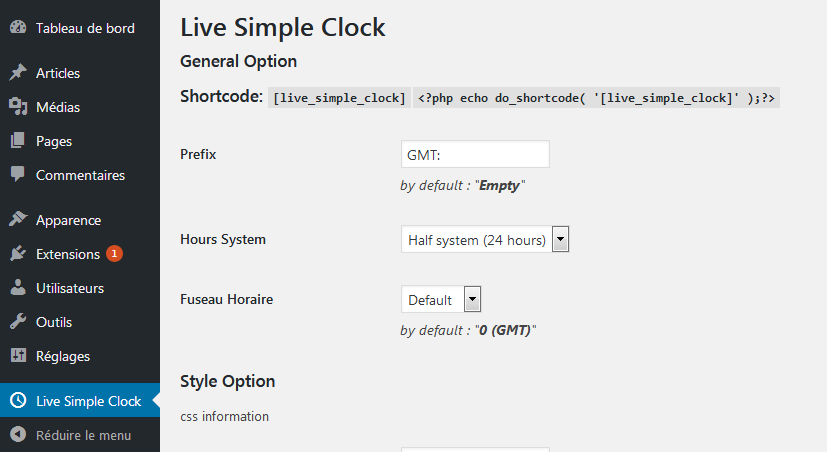
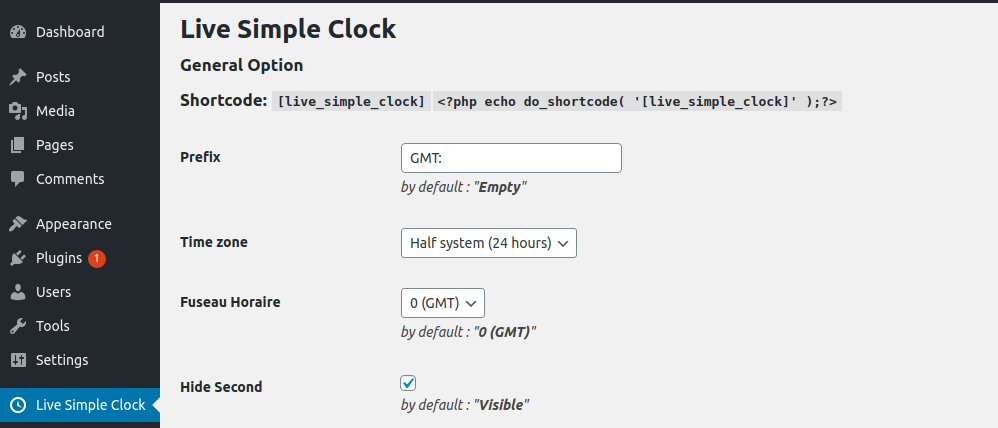
* Tested With WordPress 5.3.2 * Hide/Show second

diff --git a/tka-simple-clock-front-end.php b/tka-simple-clock-front-end.php
@@ -1,44 +1,46 @@
 <?php
 
-function tka_live_simple_clock_shortcode(){
-//css
+function tka_live_simple_clock_shortcode()
+{
+	//css
 
-	$font = esc_attr( get_option( 'tka_lsc_font' ) );
-	$font_size = esc_attr( get_option( 'tka_lsc_font_size' ) );
-	$font_weight = esc_attr( get_option( 'tka_lsc_font_weight' ) );
-	$font_color = esc_attr( get_option( 'tka_lsc_font_color' ) );
+	$font = esc_attr(get_option('tka_lsc_font'));
+	$font_size = esc_attr(get_option('tka_lsc_font_size'));
+	$font_weight = esc_attr(get_option('tka_lsc_font_weight'));
+	$font_color = esc_attr(get_option('tka_lsc_font_color'));
 
-	$codeCSS ='';
-	if($font!=''){
-		$codeCSS.='font-family:'.$font.';';
+	$codeCSS = '';
+	if ($font != '') {
+		$codeCSS .= 'font-family:' . $font . ';';
 	}
-	if($font_size!=''){
-		$codeCSS.='font-size:'.$font_size.';';
+	if ($font_size != '') {
+		$codeCSS .= 'font-size:' . $font_size . ';';
 	}
-	if($font_weight!=''){
-		$codeCSS.='font-weight:'.$font_weight.';';
+	if ($font_weight != '') {
+		$codeCSS .= 'font-weight:' . $font_weight . ';';
 	}
-	if($font_color!=''){
-		$codeCSS.='color:'.$font_color.';';
+	if ($font_color != '') {
+		$codeCSS .= 'color:' . $font_color . ';';
 	}
-//end css
-	
-	$format = esc_attr( get_option( 'tka_lsc_format' ) );
-	$fuseau = esc_attr( get_option( 'tka_lsc_fuseau' ) );
-	$title = esc_attr( get_option( 'tka_lsc_title' ) );
+	//end css
 
-	if($fuseau==''){
-		$fuseau='0';
+	$format = esc_attr(get_option('tka_lsc_format'));
+	$fuseau = esc_attr(get_option('tka_lsc_fuseau'));
+	$title = esc_attr(get_option('tka_lsc_title'));
+	$hidesecond = esc_attr(get_option('tka_lsc_hidesecond'));
+
+	if ($fuseau == '') {
+		$fuseau = '0';
 	}
-	if($format==12){
-		$temp='ampm = h >= 12 ? "pm" : "am";h=h % 12;h=h ? h : 12;';
-	}else{
-		$temp='';
+	if ($format == 12) {
+		$temp = 'ampm = h >= 12 ? "pm" : "am";h=h % 12;h=h ? h : 12;';
+	} else {
+		$temp = '';
 	}
 
-	$clock_html = '<span id="tka_time" class="tka_style" style="'.$codeCSS.'"></span>';
+	$clock_html = '<span id="tka_time" class="tka_style" style="' . $codeCSS . '"></span>';
 
-	$clock_script ='
+	$clock_script = '
 <script>
 	function checkTime(i) {
   if (i < 10) {
@@ -52,16 +54,25 @@ function startTime() {
   var today = new Date();
 
   var n = today.getTimezoneOffset();
-  var temp=('.$fuseau.'*60)/60;
+  var temp=(' . $fuseau . '*60)/60;
   var h = today.getHours();
-  	h=(temp+h);'.$temp.'
+  	h=(temp+h);' . $temp . '
   
   var m = today.getMinutes();
   var s = today.getSeconds();
   // add a zero in front of numbers<10
   m = checkTime(m);
-  s = checkTime(s);
-  document.getElementById("tka_time").innerHTML ="'.$title.' "+ h + ":" + m + ":" + s +" "+ampm;
+  s = checkTime(s);';
+
+	if ($hidesecond == true) {
+		$clock_script .= ' document.getElementById("tka_time").innerHTML ="' . $title . ' "+ h + ":" + m +" "+ampm;';
+	} else {
+		$clock_script .= ' document.getElementById("tka_time").innerHTML ="' . $title . ' "+ h + ":" + m + ":" + s +" "+ampm;';
+	}
+
+
+
+	$clock_script .= '
   t = setTimeout(function() {
     startTime()
   }, 500);
@@ -71,7 +82,6 @@ function startTime() {
 startTime();
 
 </script>';
-	return $clock_html.$clock_script;
+	return $clock_html . $clock_script;
 }
-add_shortcode( 'live_simple_clock', 'tka_live_simple_clock_shortcode' );
-
+add_shortcode('live_simple_clock', 'tka_live_simple_clock_shortcode');

diff --git a/tka-simple-clock-admin.php b/tka-simple-clock-admin.php
@@ -22,6 +22,7 @@ function tka_lsc_custom_setting(){
 	register_setting( 'tka-lsc-setting-group','tka_lsc_title');
 	register_setting( 'tka-lsc-setting-group','tka_lsc_format');
 	register_setting( 'tka-lsc-setting-group','tka_lsc_fuseau');
+	register_setting( 'tka-lsc-setting-group','tka_lsc_hidesecond');
 	//Enregistrement css
 	register_setting( 'tka-lsc-setting-group','tka_lsc_font');
 	register_setting( 'tka-lsc-setting-group','tka_lsc_font_size');
@@ -34,6 +35,7 @@ function tka_lsc_custom_setting(){
 	add_settings_field( 'tka-general-title','Prefix','tka_general_title','setting_lcs.php','tka-lsc-general-option');
 	add_settings_field( 'tka-general-format','Time zone','tka_general_format','setting_lcs.php','tka-lsc-general-option');
 	add_settings_field( 'tka-general-fuseau','Fuseau Horaire','tka_general_fuseau','setting_lcs.php','tka-lsc-general-option');
+	add_settings_field( 'tka-general-hidesecond','Hide Second','tka_general_hidesecond','setting_lcs.php','tka-lsc-general-option');
 	//Field css
 	add_settings_field( 'tka-css-font','Font','tka_css_font','setting_lcs.php','tka-lsc-css-option');
 	add_settings_field( 'tka-css-font_size','Font Size','tka_css_font_size','setting_lcs.php','tka-lsc-css-option');
@@ -110,6 +112,19 @@ function tka_general_fuseau(){
 	}
 
 	$html .='</select><p><i>by default : "<b>0 (GMT)</b>"</i></p>';
+	echo $html;
+}
+
+function tka_general_hidesecond(){
+	$hidesecond = esc_attr( get_option( 'tka_lsc_hidesecond' ) );
+	$html = '' ;
+	if($hidesecond == true){
+		$html .= '<input type="checkbox" name="tka_lsc_hidesecond" value="true" checked />';
+	}else{
+		$html .= '<input type="checkbox" name="tka_lsc_hidesecond" value="false" />';
+	}
+
+	$html .='<p><i>by default : "<b>Visible</b>"</i></p>';
 	echo $html;
 }
 

diff --git a/tka-simple-clock.php b/tka-simple-clock.php
@@ -2,7 +2,7 @@
 /*
 Plugin Name:  Live Simple Clock
 Description:  Live Simple Clock is a real time display plugin. It takes into account time zones and hours system formats 24h and 12h (PM, AM). With its short code you can display it anywhere on your site with precision.
-Version:      1.0
+Version:      1.2
 Author:       Armel Tissi
 Author URI:   http://tka-development.com
 License: 	  GPLv2 or later

diff --git a/README.md b/README.md
@@ -1,7 +1,7 @@
 # === Live Simple Clock ===
 * Contributors: [Armel Tissi](https://plus.google.com/113614768986509116921)
 * Requires at least: 3.0.1
-* Tested up to: 4.9
+* Tested up to: 5.3
 * Requires PHP: 5.2.4
 * Wordpress librairie plugin : [https://wordpress.org/plugins/live-simple-clock/](https://wordpress.org/plugins/live-simple-clock/)
 # == Description ==
@@ -53,13 +53,25 @@ Upload Method:
 * ![Front end view](screenshot-6.png)
 
 # == Changelog ==
+= 1.2 March 20th, 2020 =
+* Tested With WordPress 5.3.2
+* stable version
+* Hide/Show second
 
-= 1.1 Mars 12th, 2018 =
+= 1.1 March 12th, 2018 =
 * Tested With WordPress 4.9.4
+* stable version
+* Hours System
+* Font custom
+* Font Size custom
+* Font Weight custom
+* Font Color custom
 
 = 1.0 Dec 28th, 2017 =
 * Tested With WordPress 4.9.1
-
+* Shortcode
+* Time zone
+* Style Option
 
 
 # = Have an Idea?  =
@@ -70,6 +82,9 @@ If you have any idea, you can contact Autor [here](https://plus.google.com/11361
 ShowCase/Demo coming soon.
 
 # == Upgrade Notice ==
+= 1.2 =
+* stable version
+* Hide/Show second
 
 = 1.1 =
 * stable version
